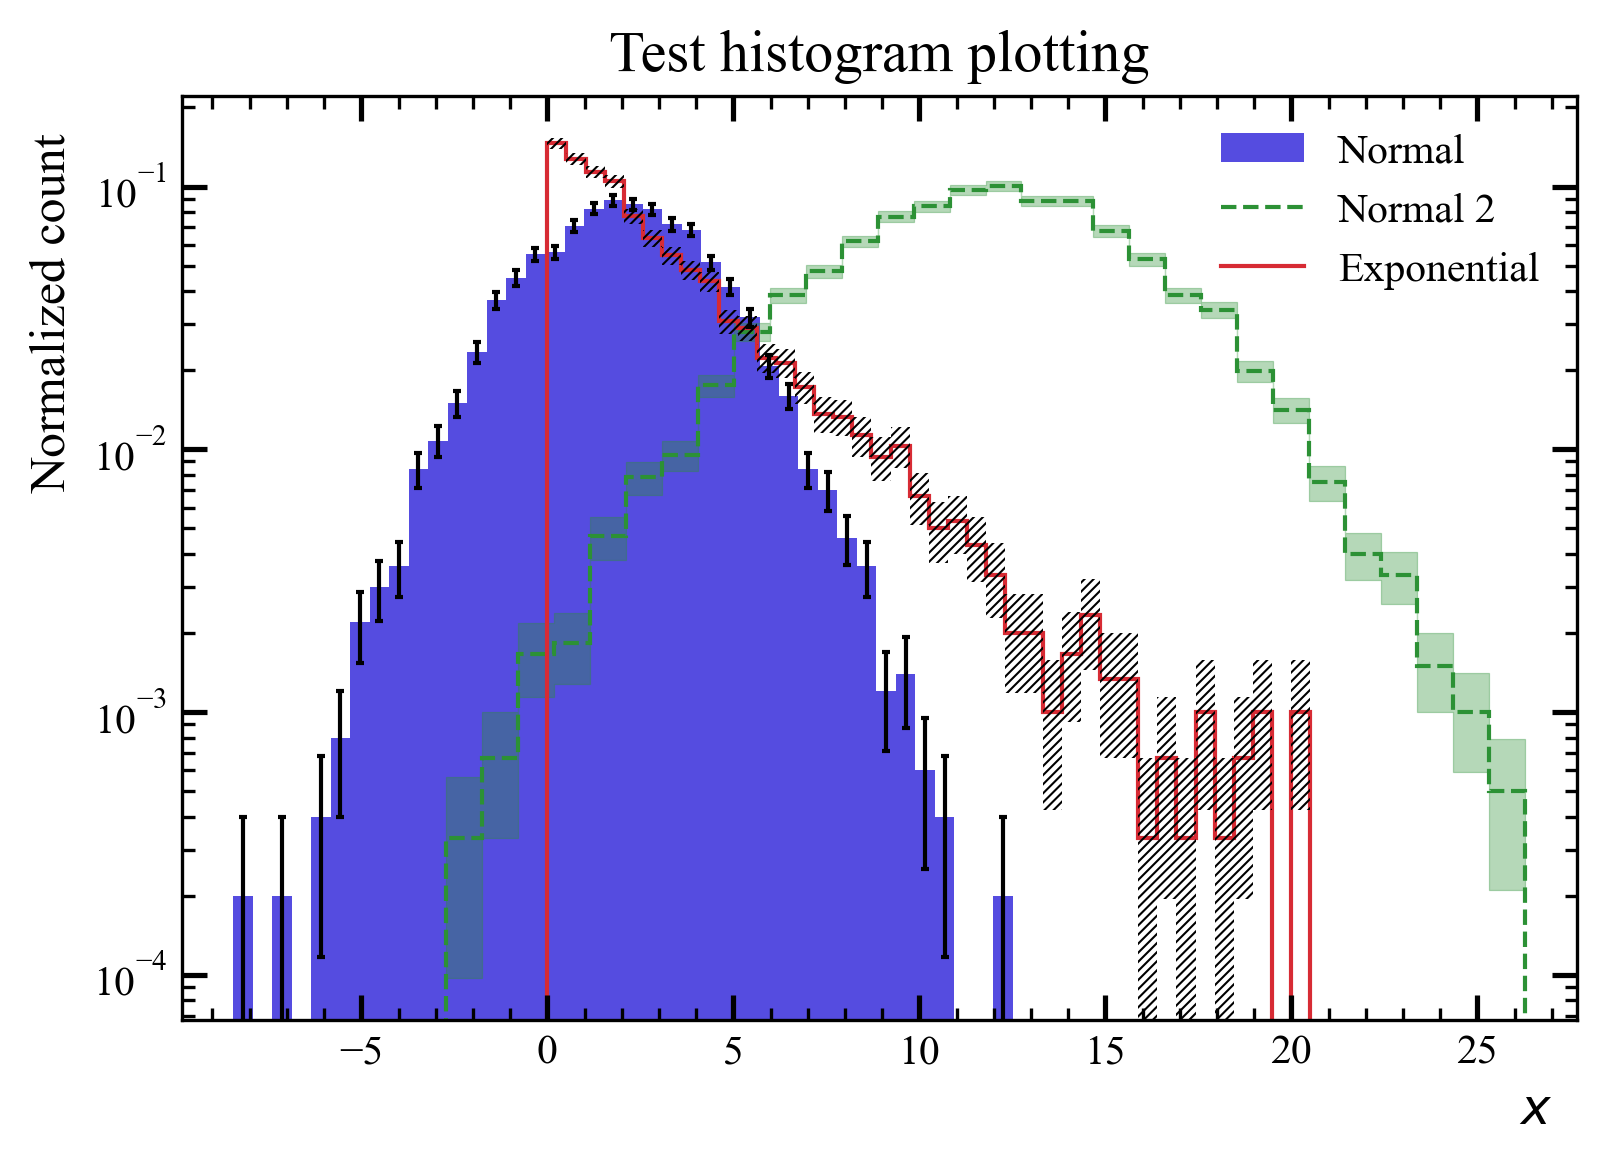
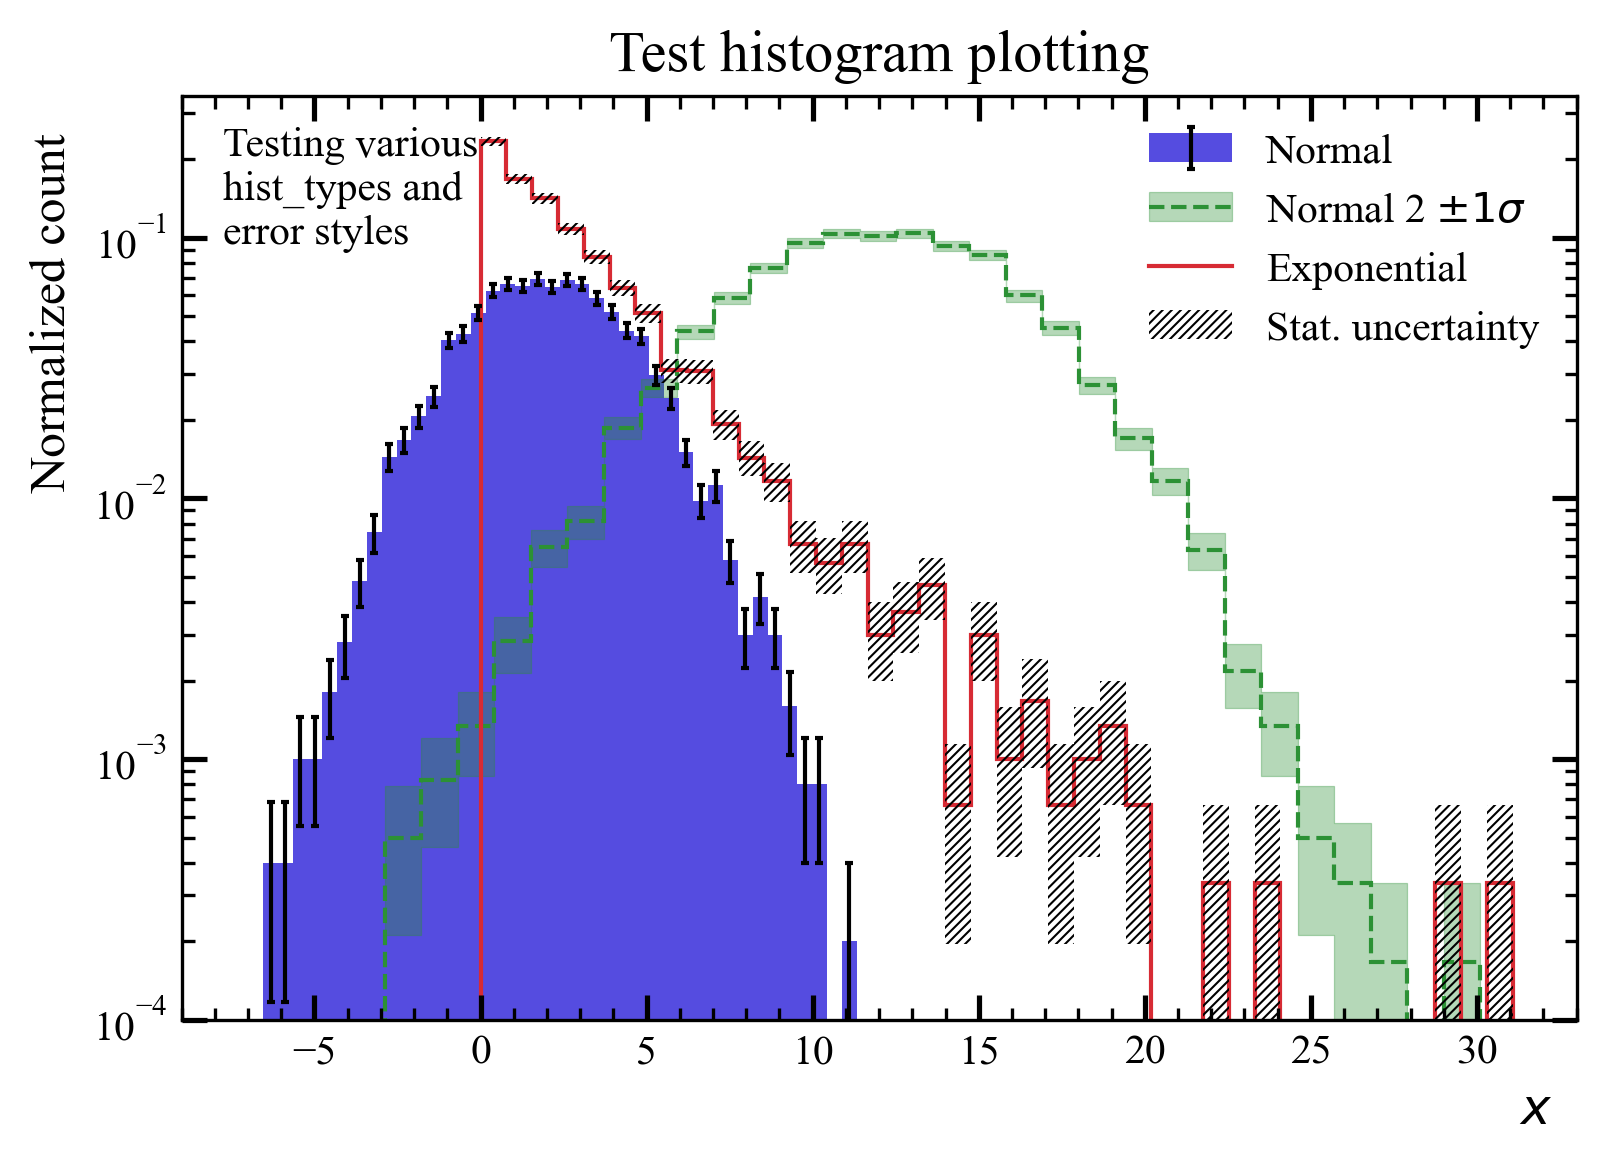
Added histogram error bars/bands to legend.

diff --git a/src/plotternova/plot_objects/standard2d.py b/src/plotternova/plot_objects/standard2d.py
@@ -2,7 +2,8 @@ from abc import ABC, abstractmethod
 import numpy as np
 import numpy.typing as npt
 from typing import Literal, Tuple
-from matplotlib.patches import Polygon
+import matplotlib as mpl
+from matplotlib.patches import Polygon, Patch
 from ..utils import check_shape
 
 
@@ -77,6 +78,7 @@ class Hist(Standard2dObject):
                  err_style: Literal["ATLAS", "fillbetween", "errorbar"] = "ATLAS",
                  alpha: float = 1,
                  label: str | None = None,
+                 err_label: str | None = None,
                  **kwargs):
         """
         Creates histogram of data where the error can be supplied.
@@ -107,6 +109,10 @@ class Hist(Standard2dObject):
           - alpha: float, sets the opacity of a "filled" or "pattern" histogram. Defaults to 1 for 
             completely solid color. 0 corresponds to transparent.
           - label: name given to histogram to be shown in legend
+          - err_label: str, optional. If plotting errors, passing in an err_label will create two 
+            separate legend entries. One for the main histogram and one for the histogram errors. If 
+            Errors are plotted but err_label is not passed, plotternova will combine the main hist 
+            and error handles into 1, and give it the label of the label parameter.
           - kwargs: various other key-word arguments to matplotlib's ax.hist()
         """
         # perform an initial length check for data and weights (if provided)
@@ -142,6 +148,10 @@ class Hist(Standard2dObject):
                     self.err = np.sqrt(weights)
                 else:
                     self.err = np.square(data)
+                
+                # create the error label if passed
+                self.err_label = err_label
+
             else:
                 self.err = None
         
@@ -159,6 +169,10 @@ class Hist(Standard2dObject):
                     self.err = np.sqrt(np.histogram(data, bins=bins, weights=weights**2)[0])
                 else:
                     self.err = np.sqrt(self.data)
+
+                # create the error label if passed
+                self.err_label = err_label
+                
             else:
                 self.err = None
 
@@ -228,10 +242,14 @@ class Hist(Standard2dObject):
                         verts.append((binr, y - e))
                         verts.append((binl, y - e))
 
+                    # enforece hatch_linewidth so it affects the legend too
+                    mpl.rcParams['hatch.linewidth'] = 0.5
+
                     # Create polygon with hatching
                     poly = Polygon(verts, closed=True, facecolor='none', edgecolor='black', 
                                    hatch='///////////', hatch_linewidth=0.5, linewidth=0)
-                    ax.add_patch(poly)
+                    
+                    err_handle = ax.add_patch(poly)
 
                 # faint +/- band of the same color around histogram bins
                 case "fillbetween":
@@ -241,7 +259,7 @@ class Hist(Standard2dObject):
                     # duplicate last value of histogram counts for fill_between
                     low = np.append(low, low[-1]); high = np.append(high, high[-1])
 
-                    ax.fill_between(self.bins, high, low, step="post", color=handle.get_edgecolor(),
+                    err_handle = ax.fill_between(self.bins, high, low, step="post", color=handle.get_edgecolor(),
                                     alpha=0.35, linewidth=0.3)
 
                 # error bars about each bin
@@ -255,16 +273,25 @@ class Hist(Standard2dObject):
                         case "step" | "point":
                             errorbar_color = handle.get_facecolor()
 
-                    hist_errbar = ErrorBar(bincenters, self.data, self.err, linestyle='none', 
-                                           color=errorbar_color)
-                    hist_errbar.draw(ax)
+                    err_handle = ax.errorbar(bincenters, self.data, yerr=self.err, linestyle='none', 
+                                             color=errorbar_color, elinewidth=1, capsize=1)
 
                 case _:
                     print(f"Warning: {self.err_style} not a error style.")
                     print("Valid error types are ['ATLAS', 'fillbetween', 'errorbar'].")
 
+            if self.err is None:
+                return handle
 
-        return handle
+            else:
+                # if an error label was passed, include the error in the legend as a separate entry
+                if self.err_label is not None:
+                    return [handle, err_handle]
+                
+                # otherwise, overlay the error handle on top of the histogram handle, and the label
+                # given for both is just label
+                else:
+                    return (handle, err_handle) # tuple, which combines into one legend element 
 
 
     def divide_hists(self, other, ax) -> npt.ArrayLike:

diff --git a/examples/hist_test.py b/examples/hist_test.py
@@ -8,9 +8,19 @@ normal_data = np.random.normal(loc=2, scale=2.5, size=5000)
 expo_data = np.random.exponential(scale=3, size=3000)
 normal_data2 = np.random.normal(loc=12, scale=4, size=6000)
 
-test_hist = HistPlot(stack=False, ratio=False, xlabel=r"$x$", ylabel="Normalized count",
-                     legend_settings="default inside", ylog_on = True, beautify_ticks=True, 
-                     title="Test histogram plotting", style="publication")
+extra_text = [
+    {
+        "text": "Testing various\nhist_types and\nerror styles",
+        "coords": (0.03,0.84),
+        "color": "black",
+        "transform": True
+    }
+]
+
+test_hist = HistPlot(stack=False, ratio=False, xlabel=r"$x$", ylabel="Normalized count",\
+                     xlim=(-9, 33), ylim=(1e-4, 0.35), legend_settings="default inside", 
+                     ylog_on = True, beautify_ticks=True, title="Test histogram plotting", 
+                     style="publication", text_info=extra_text)
 
 norm_hist = Hist(normal_data,
                  bins=40,
@@ -30,9 +40,9 @@ norm_hist2 = Hist(normal_data2,
                  include_error=True,
                  hist_type="step",
                  err_style="fillbetween",
-                 label="Normal 2",
+                 label=r"Normal 2 $\pm 1 \sigma$",
                  linestyle="--",
-                 color="#2C9135"
+                 color="#2C9135",
                  )
 
 expo_hist = Hist(expo_data,
@@ -43,7 +53,8 @@ expo_hist = Hist(expo_data,
                  hist_type="step",
                  err_style="ATLAS",
                  label="Exponential",
-                 color="#d72b34"
+                 color="#d72b34",
+                 err_label="Stat. uncertainty"
                  )
 
 test_hist.add_data(norm_hist, norm_hist2, expo_hist)

diff --git a/src/plotternova/plot_classes/hist.py b/src/plotternova/plot_classes/hist.py
@@ -86,26 +86,36 @@ class HistPlot(PlotBase):
         minx_arr = []; maxx_arr = []; miny_arr = []; maxy_arr = []
         for dataset in self._datasets:
             handle = dataset.draw(self.ax)
-            label = dataset.label
+            # label = dataset.label
             
             # determine the max and min x and y values for the data
             if isinstance(dataset, Hist):
                 minx_arr.append(np.min(dataset.bins))
                 maxx_arr.append(np.max(dataset.bins))
+
             elif isinstance(dataset, PointsLines):
                 minx_arr.append(np.min(dataset.xdata))
                 maxx_arr.append(np.max(dataset.xdata))
                 miny_arr.append(np.min(dataset.ydata))
                 maxy_arr.append(np.max(dataset.ydata))
+
             elif isinstance(dataset, ErrorBar):
                 ...
+
             elif isinstance(dataset, FillBetween):
                 ...
 
             # store the legend handles and labels
-            if label:
-                self.legend_handles.append(handle)
-                self.legend_labels.append(label)
+            if dataset.label is not None:
+                # checks the case where the main data and associated error is to be plotted separately
+                if type(handle) == list:
+                    self.legend_handles.extend(handle)
+                    self.legend_labels.extend([dataset.label, dataset.err_label])
+                
+                else:
+                    self.legend_handles.append(handle)
+                    self.legend_labels.append(dataset.label)
+
 
         # ----------------------------------------------------------------
         # adjusting the axes settings
